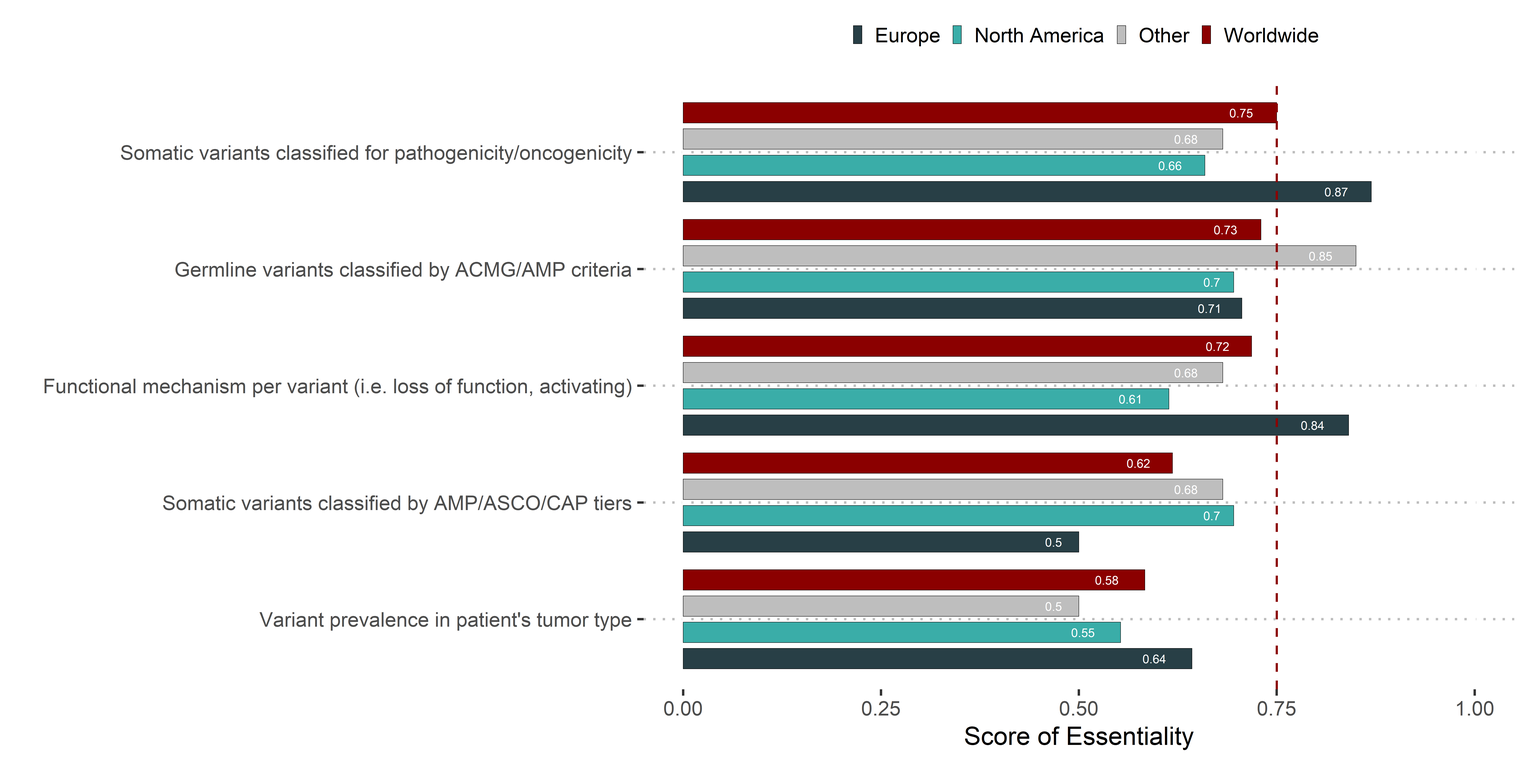
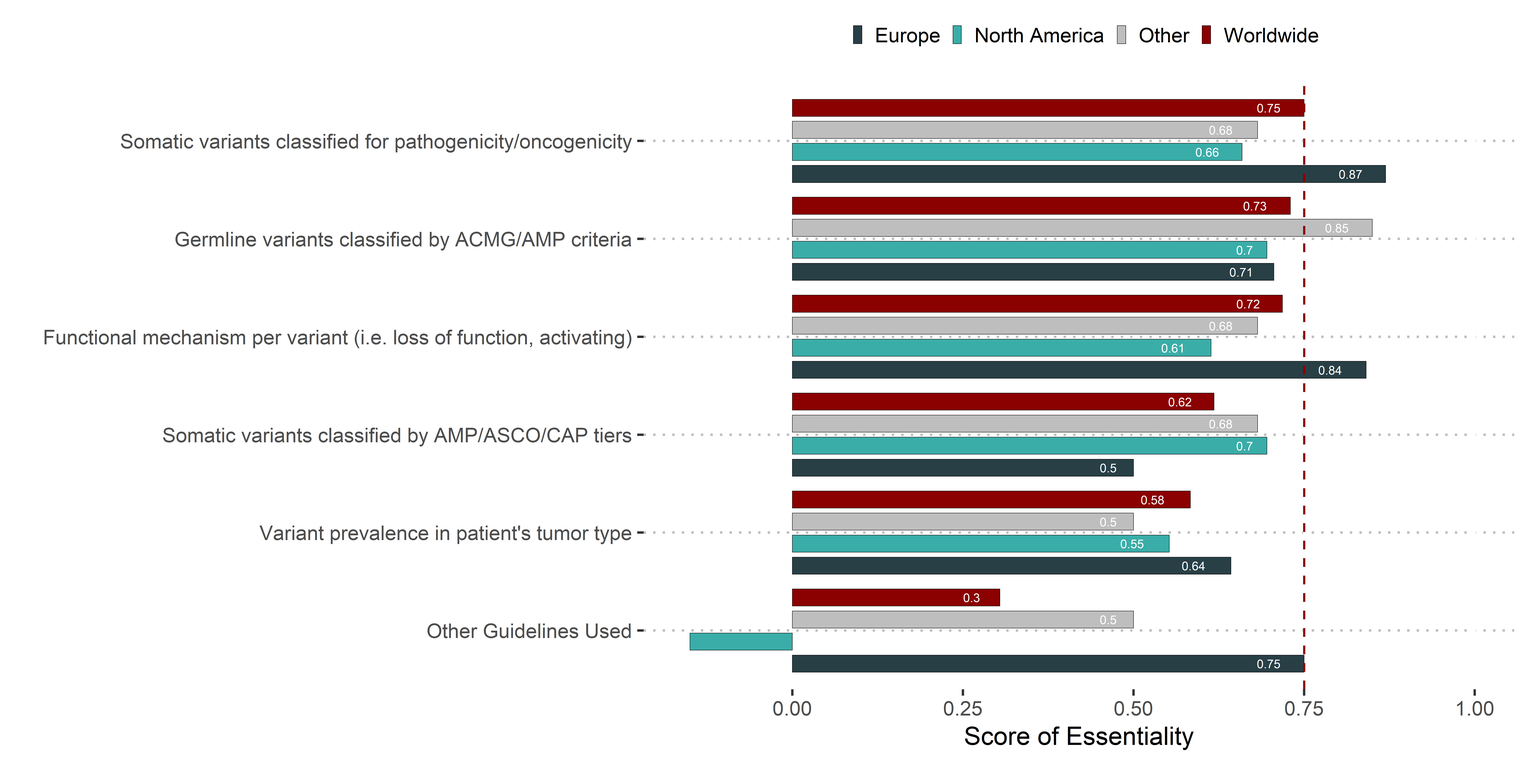
add guideline question, change figures

diff --git a/docs/index.html b/docs/index.html
@@ -2038,7 +2038,7 @@ represented laboratories in North America (n = 34 ) and Europe (n = 34
 
 </div>
 <div id="htmlwidget-06a988fdd2a34d502a66" style="width:100%;height:auto;" class="datatables html-widget"></div>
-<script type="application/json" data-for="htmlwidget-06a988fdd2a34d502a66">{"x":{"style":"bootstrap4","filter":"none","vertical":false,"caption":"<caption>Overview of the essentiality calculated by continent.<\/caption>","fillContainer":true,"data":[["1","2","3","4","5","6","7","8","9","10","11","12","13","14","15","16","17","18","19","20","21","22","23","24","25","26","27","28","29","30","31","32","33","34","35","36","37","38","39","40","41","42","43","44","45","46","47","48","49","50","51","52","53","54","55","56","57","58","59","60","61","62","63","64","65","66","67","68","69","70","71","72","73","74","75","76","77","78","79","80","81","82","83","84","85","86","87","88","89","90","91","92","93","94","95","96","97","98","99","100","101","102","103","104","105","106","107","108","109","110","111","112","113","114","115","116","117","118","119","120","121","122","123","124","125","126","127","128","129","130","131","132","133","134","135","136","137","138","139","140","141","142","143","144","145","146","147","148","149","150","151","152","153","154","155","156"],["c. nomenclature in variant list","Clinical Trial ID (NCT#)","Clinical Trial Information","Contact information for trial (phone, email)","Databases/knowledgebases used to interpret variants","Diagnosis","Diagnostic information (if available) per variant","Full Trial Name","Functional mechanism per variant (i.e. loss of function, activating)","g. nomenclature in variant list","Gene list tested by assay","Gene symbol in variant list","Gene transcript per variant","Germline variants classified by ACMG/AMP criteria","Inclusion criteria","List genes/regions with low coverage","List of all locations (states, provinces, countries)","List of biomarkers targeted in trial","Methods/Disclaimer: Assay limitations","Methods/Disclaimer: Assay performance characteristics","Other disclaimers","Other Guidelines Used","p. nomenclature in variant list","Phase of Trial (1,2,3)","Prognostic information (if available) per variant","Qualitative NGS Result Summary (i.e. This result is positive/negative)","References used to interpret variant(s)","Reported list of genetic variants","Somatic variants classified by AMP/ASCO/CAP tiers","Somatic variants classified for pathogenicity/oncogenicity","Sort trials by phase","Therapeutic/Predictive information (if available) per variant","Tissue Source","Trials matched by active recruiting status","Trials matched by location","Tumor purity/percentage","Variant allele frequency per variant","Variant prevalence in patient's tumor type","Versions of databases used to interpret variants","c. nomenclature in variant list","Clinical Trial ID (NCT#)","Clinical Trial Information","Contact information for trial (phone, email)","Databases/knowledgebases used to interpret variants","Diagnosis","Diagnostic information (if available) per variant","Full Trial Name","Functional mechanism per variant (i.e. loss of function, activating)","g. nomenclature in variant list","Gene list tested by assay","Gene symbol in variant list","Gene transcript per variant","Germline variants classified by ACMG/AMP criteria","Inclusion criteria","List genes/regions with low coverage","List of all locations (states, provinces, countries)","List of biomarkers targeted in trial","Methods/Disclaimer: Assay limitations","Methods/Disclaimer: Assay performance characteristics","Other disclaimers","Other Guidelines Used","p. nomenclature in variant list","Phase of Trial (1,2,3)","Prognostic information (if available) per variant","Qualitative NGS Result Summary (i.e. This result is positive/negative)","References used to interpret variant(s)","Reported list of genetic variants","Somatic variants classified by AMP/ASCO/CAP tiers","Somatic variants classified for pathogenicity/oncogenicity","Sort trials by phase","Therapeutic/Predictive information (if available) per variant","Tissue Source","Trials matched by active recruiting status","Trials matched by location","Tumor purity/percentage","Variant allele frequency per variant","Variant prevalence in patient's tumor type","Versions of databases used to interpret variants","c. nomenclature in variant list","Clinical Trial ID (NCT#)","Clinical Trial Information","Contact information for trial (phone, email)","Databases/knowledgebases used to interpret variants","Diagnosis","Diagnostic information (if available) per variant","Full Trial Name","Functional mechanism per variant (i.e. loss of function, activating)","g. nomenclature in variant list","Gene list tested by assay","Gene symbol in variant list","Gene transcript per variant","Germline variants classified by ACMG/AMP criteria","Inclusion criteria","List genes/regions with low coverage","List of all locations (states, provinces, countries)","List of biomarkers targeted in trial","Methods/Disclaimer: Assay limitations","Methods/Disclaimer: Assay performance characteristics","Other disclaimers","Other Guidelines Used","p. nomenclature in variant list","Phase of Trial (1,2,3)","Prognostic information (if available) per variant","Qualitative NGS Result Summary (i.e. This result is positive/negative)","References used to interpret variant(s)","Reported list of genetic variants","Somatic variants classified by AMP/ASCO/CAP tiers","Somatic variants classified for pathogenicity/oncogenicity","Sort trials by phase","Therapeutic/Predictive information (if available) per variant","Tissue Source","Trials matched by active recruiting status","Trials matched by location","Tumor purity/percentage","Variant allele frequency per variant","Variant prevalence in patient's tumor type","Versions of databases used to interpret variants","c. nomenclature in variant list","Clinical Trial ID (NCT#)","Clinical Trial Information","Contact information for trial (phone, email)","Databases/knowledgebases used to interpret variants","Diagnosis","Diagnostic information (if available) per variant","Full Trial Name","Functional mechanism per variant (i.e. loss of function, activating)","g. nomenclature in variant list","Gene list tested by assay","Gene symbol in variant list","Gene transcript per variant","Germline variants classified by ACMG/AMP criteria","Inclusion criteria","List genes/regions with low coverage","List of all locations (states, provinces, countries)","List of biomarkers targeted in trial","Methods/Disclaimer: Assay limitations","Methods/Disclaimer: Assay performance characteristics","Other disclaimers","Other Guidelines Used","p. nomenclature in variant list","Phase of Trial (1,2,3)","Prognostic information (if available) per variant","Qualitative NGS Result Summary (i.e. This result is positive/negative)","References used to interpret variant(s)","Reported list of genetic variants","Somatic variants classified by AMP/ASCO/CAP tiers","Somatic variants classified for pathogenicity/oncogenicity","Sort trials by phase","Therapeutic/Predictive information (if available) per variant","Tissue Source","Trials matched by active recruiting status","Trials matched by location","Tumor purity/percentage","Variant allele frequency per variant","Variant prevalence in patient's tumor type","Versions of databases used to interpret variants"],["general","clinical trial","general","clinical trial","general","general","general","clinical trial","general","general","general","general","general","general","clinical trial","general","clinical trial","clinical trial","general","general","general","general","general","clinical trial","general","general","general","general","general","general","clinical trial","general","general","clinical trial","clinical trial","general","general","general","general","general","clinical trial","general","clinical trial","general","general","general","clinical trial","general","general","general","general","general","general","clinical trial","general","clinical trial","clinical trial","general","general","general","general","general","clinical trial","general","general","general","general","general","general","clinical trial","general","general","clinical trial","clinical trial","general","general","general","general","general","clinical trial","general","clinical trial","general","general","general","clinical trial","general","general","general","general","general","general","clinical trial","general","clinical trial","clinical trial","general","general","general","general","general","clinical trial","general","general","general","general","general","general","clinical trial","general","general","clinical trial","clinical trial","general","general","general","general","general","clinical trial","general","clinical trial","general","general","general","clinical trial","general","general","general","general","general","general","clinical trial","general","clinical trial","clinical trial","general","general","general","general","general","clinical trial","general","general","general","general","general","general","clinical trial","general","general","clinical trial","clinical trial","general","general","general","general"],["Variants",null,"Treatment",null,"Treatment","Overview","Treatment",null,"Functional","Variants",null,"Variants","Variants","Functional",null,null,null,null,"Overview","Overview","Overview",null,"Variants",null,"Treatment","Overview","Treatment","Variants","Functional","Functional",null,"Treatment",null,null,null,"Overview","Variants","Functional","Treatment","Variants",null,"Treatment",null,"Treatment","Overview","Treatment",null,"Functional","Variants",null,"Variants","Variants","Functional",null,null,null,null,"Overview","Overview","Overview",null,"Variants",null,"Treatment","Overview","Treatment","Variants","Functional","Functional",null,"Treatment",null,null,null,"Overview","Variants","Functional","Treatment","Variants",null,"Treatment",null,"Treatment","Overview","Treatment",null,"Functional","Variants",null,"Variants","Variants","Functional",null,null,null,null,"Overview","Overview","Overview",null,"Variants",null,"Treatment","Overview","Treatment","Variants","Functional","Functional",null,"Treatment",null,null,null,"Overview","Variants","Functional","Treatment","Variants",null,"Treatment",null,"Treatment","Overview","Treatment",null,"Functional","Variants",null,"Variants","Variants","Functional",null,null,null,null,"Overview","Overview","Overview",null,"Variants",null,"Treatment","Overview","Treatment","Variants","Functional","Functional",null,"Treatment",null,null,null,"Overview","Variants","Functional","Treatment"],[51.5,64,26.5,21,41.5,53.5,41.5,36,39.5,21.5,50.5,58,46.5,36.5,26,34.5,20,37.5,48.5,46,30,7,55.5,50.5,32,39.5,49,56.5,34,42,22,46.5,56,41,31.5,46.5,48.5,28,30,21.5,27.5,11,8,20.5,24,16,13.5,18.5,11.5,21.5,24,18,12,10.5,12,7.5,17,16,16,8.5,6,25.5,22,9,14.5,21.5,23,10.5,20,9.5,18,24.5,20,16.5,21.5,23,13.5,15.5,20.5,23.5,11.5,6.5,13,19,19,11.5,13.5,6,21.5,21.5,20,16,8.5,17,6.5,12.5,24.5,22.5,15.5,-1.5,20.5,16,17,14.5,19,23,16,14.5,4.5,19,21.5,13,8,15.5,15.5,10.5,7,9.5,13,4,6.5,8,10.5,6.5,11,7.5,4,7.5,12.5,8.5,8.5,7,5.5,6,8,8,7.5,6,2.5,9.5,12.5,6,10.5,8.5,10.5,7.5,7.5,8,9.5,10,8,7,9.5,10,4,7.5],[56,68,55,30,54,59,58,53,55,50,59,60,55,50,36,54,32,49,58,56,44,23,58,60,55,51,56,58,55,56,32,59,58,53,48,56,56,48,54,23,29,23,13,23,24,24,23,22,19,25,25,22,17,17,22,13,23,23,23,17,8,26,27,22,21,24,24,21,23,13,25,26,27,27,24,23,21,25,23,25,22,8,21,24,24,17,22,23,24,22,24,23,11,23,10,16,26,24,20,10,22,20,24,19,22,23,23,22,8,24,22,16,11,22,21,19,18,10,14,10,9,10,11,10,13,11,8,10,13,9,10,8,9,9,10,9,9,7,5,10,13,9,11,10,11,11,11,11,10,10,10,10,10,12,8,11],[0.919642857142857,0.941176470588235,0.481818181818182,0.7,0.768518518518518,0.906779661016949,0.71551724137931,0.679245283018868,0.718181818181818,0.43,0.855932203389831,0.966666666666667,0.845454545454545,0.73,0.722222222222222,0.638888888888889,0.625,0.76530612244898,0.836206896551724,0.821428571428571,0.681818181818182,0.304347826086957,0.956896551724138,0.841666666666667,0.581818181818182,0.774509803921569,0.875,0.974137931034483,0.618181818181818,0.75,0.6875,0.788135593220339,0.96551724137931,0.773584905660377,0.65625,0.830357142857143,0.866071428571429,0.583333333333333,0.555555555555556,0.934782608695652,0.948275862068966,0.478260869565217,0.615384615384615,0.891304347826087,1,0.666666666666667,0.58695652173913,0.840909090909091,0.605263157894737,0.86,0.96,0.818181818181818,0.705882352941177,0.617647058823529,0.545454545454545,0.576923076923077,0.739130434782609,0.695652173913043,0.695652173913043,0.5,0.75,0.980769230769231,0.814814814814815,0.409090909090909,0.69047619047619,0.895833333333333,0.958333333333333,0.5,0.869565217391304,0.730769230769231,0.72,0.942307692307692,0.740740740740741,0.611111111111111,0.895833333333333,1,0.642857142857143,0.62,0.891304347826087,0.94,0.522727272727273,0.8125,0.619047619047619,0.791666666666667,0.791666666666667,0.676470588235294,0.613636363636364,0.260869565217391,0.895833333333333,0.977272727272727,0.833333333333333,0.695652173913043,0.772727272727273,0.739130434782609,0.65,0.78125,0.942307692307692,0.9375,0.775,-0.15,0.931818181818182,0.8,0.708333333333333,0.763157894736842,0.863636363636364,1,0.695652173913043,0.659090909090909,0.5625,0.791666666666667,0.977272727272727,0.8125,0.727272727272727,0.704545454545455,0.738095238095238,0.552631578947368,0.388888888888889,0.95,0.928571428571429,0.4,0.722222222222222,0.8,0.954545454545455,0.65,0.846153846153846,0.681818181818182,0.5,0.75,0.961538461538462,0.944444444444444,0.85,0.875,0.611111111111111,0.666666666666667,0.8,0.888888888888889,0.833333333333333,0.857142857142857,0.5,0.95,0.961538461538462,0.666666666666667,0.954545454545455,0.85,0.954545454545455,0.681818181818182,0.681818181818182,0.727272727272727,0.95,1,0.8,0.7,0.95,0.833333333333333,0.5,0.681818181818182],["Worldwide","Worldwide","Worldwide","Worldwide","Worldwide","Worldwide","Worldwide","Worldwide","Worldwide","Worldwide","Worldwide","Worldwide","Worldwide","Worldwide","Worldwide","Worldwide","Worldwide","Worldwide","Worldwide","Worldwide","Worldwide","Worldwide","Worldwide","Worldwide","Worldwide","Worldwide","Worldwide","Worldwide","Worldwide","Worldwide","Worldwide","Worldwide","Worldwide","Worldwide","Worldwide","Worldwide","Worldwide","Worldwide","Worldwide","Europe","Europe","Europe","Europe","Europe","Europe","Europe","Europe","Europe","Europe","Europe","Europe","Europe","Europe","Europe","Europe","Europe","Europe","Europe","Europe","Europe","Europe","Europe","Europe","Europe","Europe","Europe","Europe","Europe","Europe","Europe","Europe","Europe","Europe","Europe","Europe","Europe","Europe","Europe","North America","North America","North America","North America","North America","North America","North America","North America","North America","North America","North America","North America","North America","North America","North America","North America","North America","North America","North America","North America","North America","North America","North America","North America","North America","North America","North America","North America","North America","North America","North America","North America","North America","North America","North America","North America","North America","North America","North America","Other","Other","Other","Other","Other","Other","Other","Other","Other","Other","Other","Other","Other","Other","Other","Other","Other","Other","Other","Other","Other","Other","Other","Other","Other","Other","Other","Other","Other","Other","Other","Other","Other","Other","Other","Other","Other","Other","Other"]],"container":"<table class=\"table table-striped table-hover row-border order-column display fill-container\">\n  <thead>\n    <tr>\n      <th> <\/th>\n      <th>name<\/th>\n      <th>group<\/th>\n      <th>section<\/th>\n      <th>sumEssent<\/th>\n      <th>totEssent<\/th>\n      <th>normEssent<\/th>\n      <th>continent<\/th>\n    <\/tr>\n  <\/thead>\n<\/table>","options":{"columnDefs":[{"className":"dt-right","targets":[4,5,6]},{"orderable":false,"targets":0}],"order":[],"autoWidth":false,"orderClasses":false}},"evals":[],"jsHooks":[]}</script>
+<script type="application/json" data-for="htmlwidget-06a988fdd2a34d502a66">{"x":{"style":"bootstrap4","filter":"none","vertical":false,"caption":"<caption>Overview of the essentiality calculated by continent.<\/caption>","fillContainer":true,"data":[["1","2","3","4","5","6","7","8","9","10","11","12","13","14","15","16","17","18","19","20","21","22","23","24","25","26","27","28","29","30","31","32","33","34","35","36","37","38","39","40","41","42","43","44","45","46","47","48","49","50","51","52","53","54","55","56","57","58","59","60","61","62","63","64","65","66","67","68","69","70","71","72","73","74","75","76","77","78","79","80","81","82","83","84","85","86","87","88","89","90","91","92","93","94","95","96","97","98","99","100","101","102","103","104","105","106","107","108","109","110","111","112","113","114","115","116","117","118","119","120","121","122","123","124","125","126","127","128","129","130","131","132","133","134","135","136","137","138","139","140","141","142","143","144","145","146","147","148","149","150","151","152","153","154","155","156"],["c. nomenclature in variant list","Clinical Trial ID (NCT#)","Clinical Trial Information","Contact information for trial (phone, email)","Databases/knowledgebases used to interpret variants","Diagnosis","Diagnostic information (if available) per variant","Full Trial Name","Functional mechanism per variant (i.e. loss of function, activating)","g. nomenclature in variant list","Gene list tested by assay","Gene symbol in variant list","Gene transcript per variant","Germline variants classified by ACMG/AMP criteria","Inclusion criteria","List genes/regions with low coverage","List of all locations (states, provinces, countries)","List of biomarkers targeted in trial","Methods/Disclaimer: Assay limitations","Methods/Disclaimer: Assay performance characteristics","Other disclaimers","Other Guidelines Used","p. nomenclature in variant list","Phase of Trial (1,2,3)","Prognostic information (if available) per variant","Qualitative NGS Result Summary (i.e. This result is positive/negative)","References used to interpret variant(s)","Reported list of genetic variants","Somatic variants classified by AMP/ASCO/CAP tiers","Somatic variants classified for pathogenicity/oncogenicity","Sort trials by phase","Therapeutic/Predictive information (if available) per variant","Tissue Source","Trials matched by active recruiting status","Trials matched by location","Tumor purity/percentage","Variant allele frequency per variant","Variant prevalence in patient's tumor type","Versions of databases used to interpret variants","c. nomenclature in variant list","Clinical Trial ID (NCT#)","Clinical Trial Information","Contact information for trial (phone, email)","Databases/knowledgebases used to interpret variants","Diagnosis","Diagnostic information (if available) per variant","Full Trial Name","Functional mechanism per variant (i.e. loss of function, activating)","g. nomenclature in variant list","Gene list tested by assay","Gene symbol in variant list","Gene transcript per variant","Germline variants classified by ACMG/AMP criteria","Inclusion criteria","List genes/regions with low coverage","List of all locations (states, provinces, countries)","List of biomarkers targeted in trial","Methods/Disclaimer: Assay limitations","Methods/Disclaimer: Assay performance characteristics","Other disclaimers","Other Guidelines Used","p. nomenclature in variant list","Phase of Trial (1,2,3)","Prognostic information (if available) per variant","Qualitative NGS Result Summary (i.e. This result is positive/negative)","References used to interpret variant(s)","Reported list of genetic variants","Somatic variants classified by AMP/ASCO/CAP tiers","Somatic variants classified for pathogenicity/oncogenicity","Sort trials by phase","Therapeutic/Predictive information (if available) per variant","Tissue Source","Trials matched by active recruiting status","Trials matched by location","Tumor purity/percentage","Variant allele frequency per variant","Variant prevalence in patient's tumor type","Versions of databases used to interpret variants","c. nomenclature in variant list","Clinical Trial ID (NCT#)","Clinical Trial Information","Contact information for trial (phone, email)","Databases/knowledgebases used to interpret variants","Diagnosis","Diagnostic information (if available) per variant","Full Trial Name","Functional mechanism per variant (i.e. loss of function, activating)","g. nomenclature in variant list","Gene list tested by assay","Gene symbol in variant list","Gene transcript per variant","Germline variants classified by ACMG/AMP criteria","Inclusion criteria","List genes/regions with low coverage","List of all locations (states, provinces, countries)","List of biomarkers targeted in trial","Methods/Disclaimer: Assay limitations","Methods/Disclaimer: Assay performance characteristics","Other disclaimers","Other Guidelines Used","p. nomenclature in variant list","Phase of Trial (1,2,3)","Prognostic information (if available) per variant","Qualitative NGS Result Summary (i.e. This result is positive/negative)","References used to interpret variant(s)","Reported list of genetic variants","Somatic variants classified by AMP/ASCO/CAP tiers","Somatic variants classified for pathogenicity/oncogenicity","Sort trials by phase","Therapeutic/Predictive information (if available) per variant","Tissue Source","Trials matched by active recruiting status","Trials matched by location","Tumor purity/percentage","Variant allele frequency per variant","Variant prevalence in patient's tumor type","Versions of databases used to interpret variants","c. nomenclature in variant list","Clinical Trial ID (NCT#)","Clinical Trial Information","Contact information for trial (phone, email)","Databases/knowledgebases used to interpret variants","Diagnosis","Diagnostic information (if available) per variant","Full Trial Name","Functional mechanism per variant (i.e. loss of function, activating)","g. nomenclature in variant list","Gene list tested by assay","Gene symbol in variant list","Gene transcript per variant","Germline variants classified by ACMG/AMP criteria","Inclusion criteria","List genes/regions with low coverage","List of all locations (states, provinces, countries)","List of biomarkers targeted in trial","Methods/Disclaimer: Assay limitations","Methods/Disclaimer: Assay performance characteristics","Other disclaimers","Other Guidelines Used","p. nomenclature in variant list","Phase of Trial (1,2,3)","Prognostic information (if available) per variant","Qualitative NGS Result Summary (i.e. This result is positive/negative)","References used to interpret variant(s)","Reported list of genetic variants","Somatic variants classified by AMP/ASCO/CAP tiers","Somatic variants classified for pathogenicity/oncogenicity","Sort trials by phase","Therapeutic/Predictive information (if available) per variant","Tissue Source","Trials matched by active recruiting status","Trials matched by location","Tumor purity/percentage","Variant allele frequency per variant","Variant prevalence in patient's tumor type","Versions of databases used to interpret variants"],["general","clinical trial","general","clinical trial","general","general","general","clinical trial","general","general","general","general","general","general","clinical trial","general","clinical trial","clinical trial","general","general","general","general","general","clinical trial","general","general","general","general","general","general","clinical trial","general","general","clinical trial","clinical trial","general","general","general","general","general","clinical trial","general","clinical trial","general","general","general","clinical trial","general","general","general","general","general","general","clinical trial","general","clinical trial","clinical trial","general","general","general","general","general","clinical trial","general","general","general","general","general","general","clinical trial","general","general","clinical trial","clinical trial","general","general","general","general","general","clinical trial","general","clinical trial","general","general","general","clinical trial","general","general","general","general","general","general","clinical trial","general","clinical trial","clinical trial","general","general","general","general","general","clinical trial","general","general","general","general","general","general","clinical trial","general","general","clinical trial","clinical trial","general","general","general","general","general","clinical trial","general","clinical trial","general","general","general","clinical trial","general","general","general","general","general","general","clinical trial","general","clinical trial","clinical trial","general","general","general","general","general","clinical trial","general","general","general","general","general","general","clinical trial","general","general","clinical trial","clinical trial","general","general","general","general"],["Variants",null,"Treatment",null,"Treatment","Overview","Treatment",null,"Functional","Variants",null,"Variants","Variants","Functional",null,null,null,null,"Overview","Overview","Overview","Functional","Variants",null,"Treatment","Overview","Treatment","Variants","Functional","Functional",null,"Treatment",null,null,null,"Overview","Variants","Functional","Treatment","Variants",null,"Treatment",null,"Treatment","Overview","Treatment",null,"Functional","Variants",null,"Variants","Variants","Functional",null,null,null,null,"Overview","Overview","Overview","Functional","Variants",null,"Treatment","Overview","Treatment","Variants","Functional","Functional",null,"Treatment",null,null,null,"Overview","Variants","Functional","Treatment","Variants",null,"Treatment",null,"Treatment","Overview","Treatment",null,"Functional","Variants",null,"Variants","Variants","Functional",null,null,null,null,"Overview","Overview","Overview","Functional","Variants",null,"Treatment","Overview","Treatment","Variants","Functional","Functional",null,"Treatment",null,null,null,"Overview","Variants","Functional","Treatment","Variants",null,"Treatment",null,"Treatment","Overview","Treatment",null,"Functional","Variants",null,"Variants","Variants","Functional",null,null,null,null,"Overview","Overview","Overview","Functional","Variants",null,"Treatment","Overview","Treatment","Variants","Functional","Functional",null,"Treatment",null,null,null,"Overview","Variants","Functional","Treatment"],[51.5,64,26.5,21,41.5,53.5,41.5,36,39.5,21.5,50.5,58,46.5,36.5,26,34.5,20,37.5,48.5,46,30,7,55.5,50.5,32,39.5,49,56.5,34,42,22,46.5,56,41,31.5,46.5,48.5,28,30,21.5,27.5,11,8,20.5,24,16,13.5,18.5,11.5,21.5,24,18,12,10.5,12,7.5,17,16,16,8.5,6,25.5,22,9,14.5,21.5,23,10.5,20,9.5,18,24.5,20,16.5,21.5,23,13.5,15.5,20.5,23.5,11.5,6.5,13,19,19,11.5,13.5,6,21.5,21.5,20,16,8.5,17,6.5,12.5,24.5,22.5,15.5,-1.5,20.5,16,17,14.5,19,23,16,14.5,4.5,19,21.5,13,8,15.5,15.5,10.5,7,9.5,13,4,6.5,8,10.5,6.5,11,7.5,4,7.5,12.5,8.5,8.5,7,5.5,6,8,8,7.5,6,2.5,9.5,12.5,6,10.5,8.5,10.5,7.5,7.5,8,9.5,10,8,7,9.5,10,4,7.5],[56,68,55,30,54,59,58,53,55,50,59,60,55,50,36,54,32,49,58,56,44,23,58,60,55,51,56,58,55,56,32,59,58,53,48,56,56,48,54,23,29,23,13,23,24,24,23,22,19,25,25,22,17,17,22,13,23,23,23,17,8,26,27,22,21,24,24,21,23,13,25,26,27,27,24,23,21,25,23,25,22,8,21,24,24,17,22,23,24,22,24,23,11,23,10,16,26,24,20,10,22,20,24,19,22,23,23,22,8,24,22,16,11,22,21,19,18,10,14,10,9,10,11,10,13,11,8,10,13,9,10,8,9,9,10,9,9,7,5,10,13,9,11,10,11,11,11,11,10,10,10,10,10,12,8,11],[0.919642857142857,0.941176470588235,0.481818181818182,0.7,0.768518518518518,0.906779661016949,0.71551724137931,0.679245283018868,0.718181818181818,0.43,0.855932203389831,0.966666666666667,0.845454545454545,0.73,0.722222222222222,0.638888888888889,0.625,0.76530612244898,0.836206896551724,0.821428571428571,0.681818181818182,0.304347826086957,0.956896551724138,0.841666666666667,0.581818181818182,0.774509803921569,0.875,0.974137931034483,0.618181818181818,0.75,0.6875,0.788135593220339,0.96551724137931,0.773584905660377,0.65625,0.830357142857143,0.866071428571429,0.583333333333333,0.555555555555556,0.934782608695652,0.948275862068966,0.478260869565217,0.615384615384615,0.891304347826087,1,0.666666666666667,0.58695652173913,0.840909090909091,0.605263157894737,0.86,0.96,0.818181818181818,0.705882352941177,0.617647058823529,0.545454545454545,0.576923076923077,0.739130434782609,0.695652173913043,0.695652173913043,0.5,0.75,0.980769230769231,0.814814814814815,0.409090909090909,0.69047619047619,0.895833333333333,0.958333333333333,0.5,0.869565217391304,0.730769230769231,0.72,0.942307692307692,0.740740740740741,0.611111111111111,0.895833333333333,1,0.642857142857143,0.62,0.891304347826087,0.94,0.522727272727273,0.8125,0.619047619047619,0.791666666666667,0.791666666666667,0.676470588235294,0.613636363636364,0.260869565217391,0.895833333333333,0.977272727272727,0.833333333333333,0.695652173913043,0.772727272727273,0.739130434782609,0.65,0.78125,0.942307692307692,0.9375,0.775,-0.15,0.931818181818182,0.8,0.708333333333333,0.763157894736842,0.863636363636364,1,0.695652173913043,0.659090909090909,0.5625,0.791666666666667,0.977272727272727,0.8125,0.727272727272727,0.704545454545455,0.738095238095238,0.552631578947368,0.388888888888889,0.95,0.928571428571429,0.4,0.722222222222222,0.8,0.954545454545455,0.65,0.846153846153846,0.681818181818182,0.5,0.75,0.961538461538462,0.944444444444444,0.85,0.875,0.611111111111111,0.666666666666667,0.8,0.888888888888889,0.833333333333333,0.857142857142857,0.5,0.95,0.961538461538462,0.666666666666667,0.954545454545455,0.85,0.954545454545455,0.681818181818182,0.681818181818182,0.727272727272727,0.95,1,0.8,0.7,0.95,0.833333333333333,0.5,0.681818181818182],["Worldwide","Worldwide","Worldwide","Worldwide","Worldwide","Worldwide","Worldwide","Worldwide","Worldwide","Worldwide","Worldwide","Worldwide","Worldwide","Worldwide","Worldwide","Worldwide","Worldwide","Worldwide","Worldwide","Worldwide","Worldwide","Worldwide","Worldwide","Worldwide","Worldwide","Worldwide","Worldwide","Worldwide","Worldwide","Worldwide","Worldwide","Worldwide","Worldwide","Worldwide","Worldwide","Worldwide","Worldwide","Worldwide","Worldwide","Europe","Europe","Europe","Europe","Europe","Europe","Europe","Europe","Europe","Europe","Europe","Europe","Europe","Europe","Europe","Europe","Europe","Europe","Europe","Europe","Europe","Europe","Europe","Europe","Europe","Europe","Europe","Europe","Europe","Europe","Europe","Europe","Europe","Europe","Europe","Europe","Europe","Europe","Europe","North America","North America","North America","North America","North America","North America","North America","North America","North America","North America","North America","North America","North America","North America","North America","North America","North America","North America","North America","North America","North America","North America","North America","North America","North America","North America","North America","North America","North America","North America","North America","North America","North America","North America","North America","North America","North America","North America","North America","Other","Other","Other","Other","Other","Other","Other","Other","Other","Other","Other","Other","Other","Other","Other","Other","Other","Other","Other","Other","Other","Other","Other","Other","Other","Other","Other","Other","Other","Other","Other","Other","Other","Other","Other","Other","Other","Other","Other"]],"container":"<table class=\"table table-striped table-hover row-border order-column display fill-container\">\n  <thead>\n    <tr>\n      <th> <\/th>\n      <th>name<\/th>\n      <th>group<\/th>\n      <th>section<\/th>\n      <th>sumEssent<\/th>\n      <th>totEssent<\/th>\n      <th>normEssent<\/th>\n      <th>continent<\/th>\n    <\/tr>\n  <\/thead>\n<\/table>","options":{"columnDefs":[{"className":"dt-right","targets":[4,5,6]},{"orderable":false,"targets":0}],"order":[],"autoWidth":false,"orderClasses":false}},"evals":[],"jsHooks":[]}</script>
 </div>
 </div>
 <div id="methods" class="section level1">
